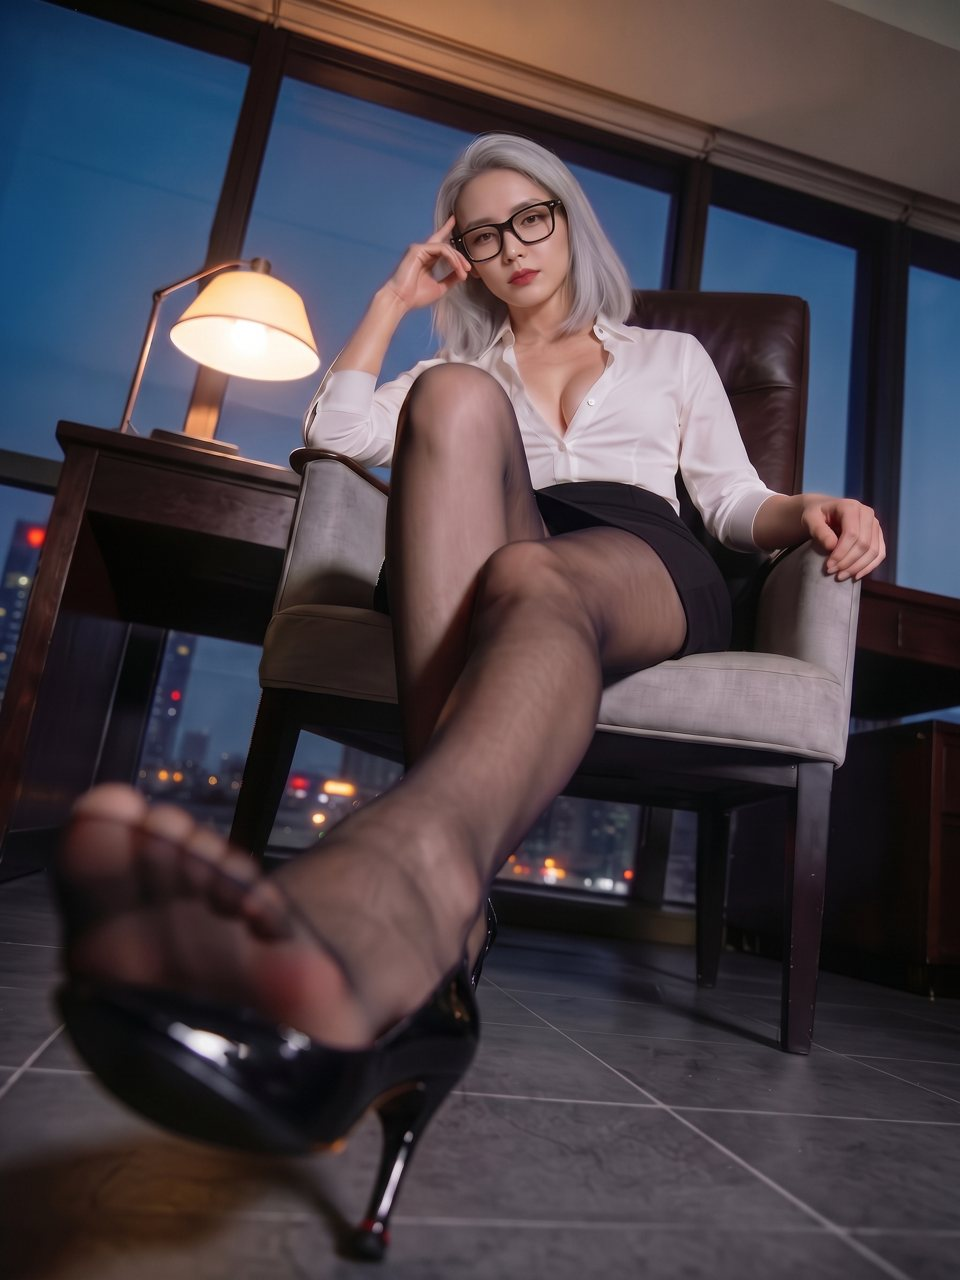
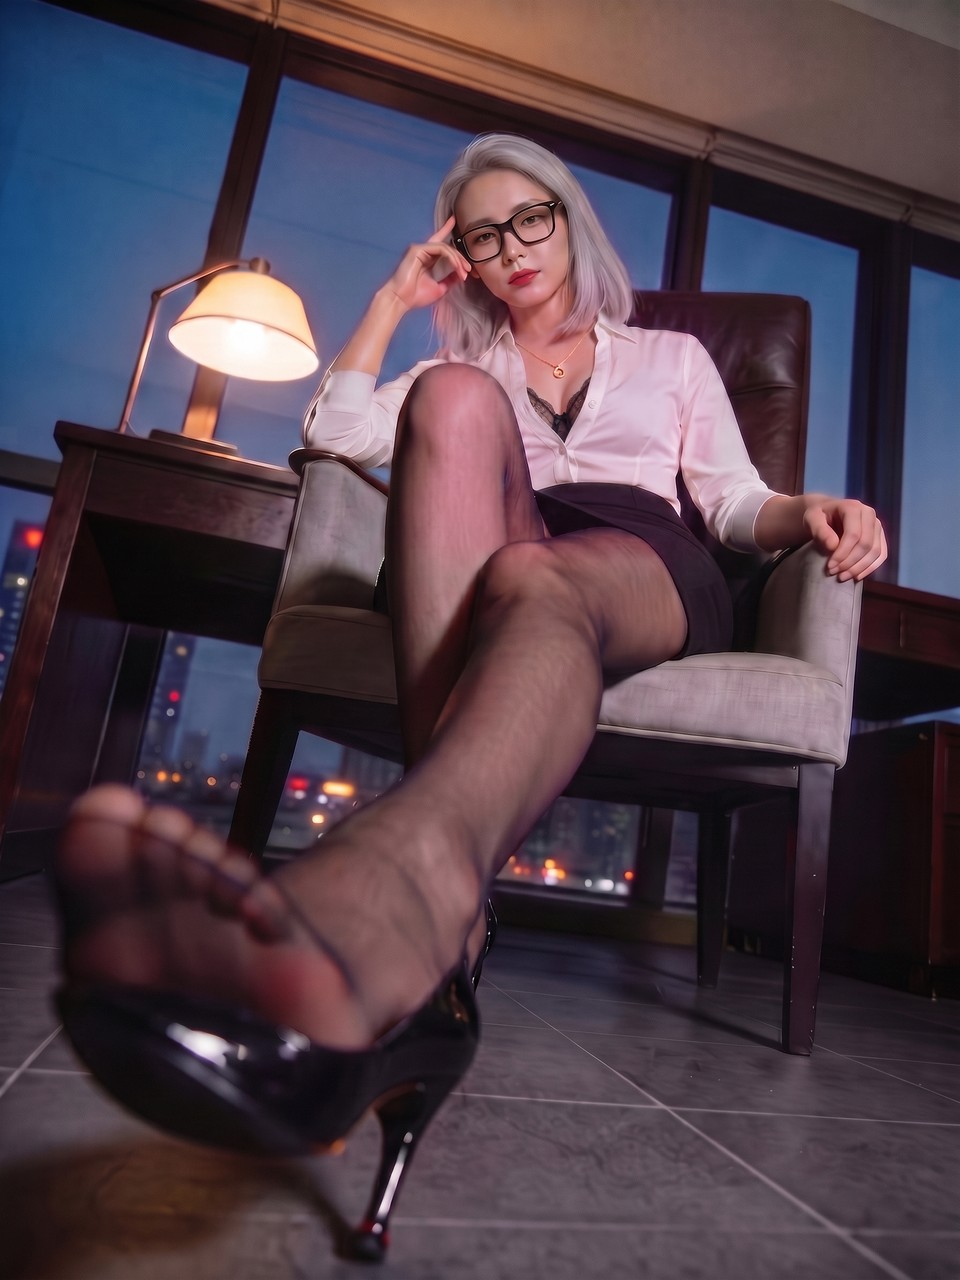
Wendy final: 252 + necklace + sheer lace S1 (追加 97)

diff --git a/production/modeling_runs/2026-10-12_pioneer4/catalog/index.html b/production/modeling_runs/2026-10-12_pioneer4/catalog/index.html
@@ -92,7 +92,7 @@ footer{margin-top:40px;font-size:12.5px;color:var(--muted);display:grid;gap:4px}
   <section class="sheet" id="wendy" style="--c:var(--c-wendy)">
     <div class="gallery">
       <figure class="photo">
-        <img src="img/wendy.jpg" alt="Wendy 定稿：銀灰短髮戴黑框眼鏡，白襯衫黑窄裙黑絲襪，在夜晚辦公室低角度翹腿俯視鏡頭" loading="lazy">
+        <img src="img/wendy.jpg" alt="Wendy 定稿：銀灰短髮戴黑框眼鏡，戴項鍊，白襯衫領口露出透膚黑蕾絲胸罩上緣，黑窄裙黑絲襪，在夜晚辦公室低角度翹腿俯視鏡頭" loading="lazy">
         <p class="quote">出這麼大的包，你打算怎麼彌補？
 嘴巴這麼會講，不如用在我腳上。做好，我就當沒這回事。
 什麼？你說這在業界算一種獎勵？

diff --git a/production/modeling_runs/2026-10-12_pioneer4/REPORT.md b/production/modeling_runs/2026-10-12_pioneer4/REPORT.md
@@ -2250,3 +2250,11 @@ Scene: cream brick wall with dark wood beams, blue sky with clouds at the top le
 - 兩版都不露點。邊緣差約 7（S2 右緣 9.6），以羽化方框貼回 `0ccb96b9`（左上 760,480），全圖接縫看不出來。
 - 狀態：PROPOSED，等製作師在 L1／L2／B1／B2／S1／S2 中選定，再取代 252 定稿。
 - 點數：4 點。本專案本批累計 273.40 點。
+
+## 追加 97（2026-10-14）：Wendy 定稿換成 252＋項鍊＋透膚蕾絲 S1
+
+- 製作師：**S1 定稿**。
+- 最終檔：`社群媒體/wendy/wendy_v2_job252_s1_37ef9ca6.jpg`（1792×2400，JPEG 品質 95）＝ `0ccb96b9`（252＋項鍊）全圖，胸口貼回 S1 `37ef9ca6`（左上 760,480，羽化方框）。取代 `wendy_v2_job252_db476121.jpg`（已從 repo 與本機備份移除；job 252 仍在 Higgsfield）。
+- 本機備份：`Documents\Luscena_KOL_定稿備份\wendy\` 已換成新檔，內容逐位元比對一致。
+- 型錄：`catalog/img/wendy.jpg` 換成 S1（960×1280），圖說補上項鍊與蕾絲。POST_IDEAS W-01 的配圖路徑同步更新。
+- 點數：0 點。本專案本批累計 273.40 點。

diff --git a/production/modeling_runs/2026-10-12_pioneer4/POST_IDEAS_2026-10-12.md b/production/modeling_runs/2026-10-12_pioneer4/POST_IDEAS_2026-10-12.md
@@ -42,7 +42,7 @@
 #### W-01 定稿候選（製作師 2026-10-12 確認用字）
 
 - 「舔」改為暗示句「嘴巴這麼會講，不如用在我腳上」（避開分類器直抓的動詞，意思由讀者補）；「噁心的變態」改「你這噁心的死變態」；不加開頭鉤子與結尾鞋句。
-- 配 Wendy 定稿圖 job 252（`finals/wendy_v2_job252_db476121.jpg`）。
+- 配 Wendy 定稿圖 job 252 S1 版（`社群媒體/wendy/wendy_v2_job252_s1_37ef9ca6.jpg`，追加 97 起取代原 252）。
 
 > 出這麼大的包，你打算怎麼彌補？
 >
